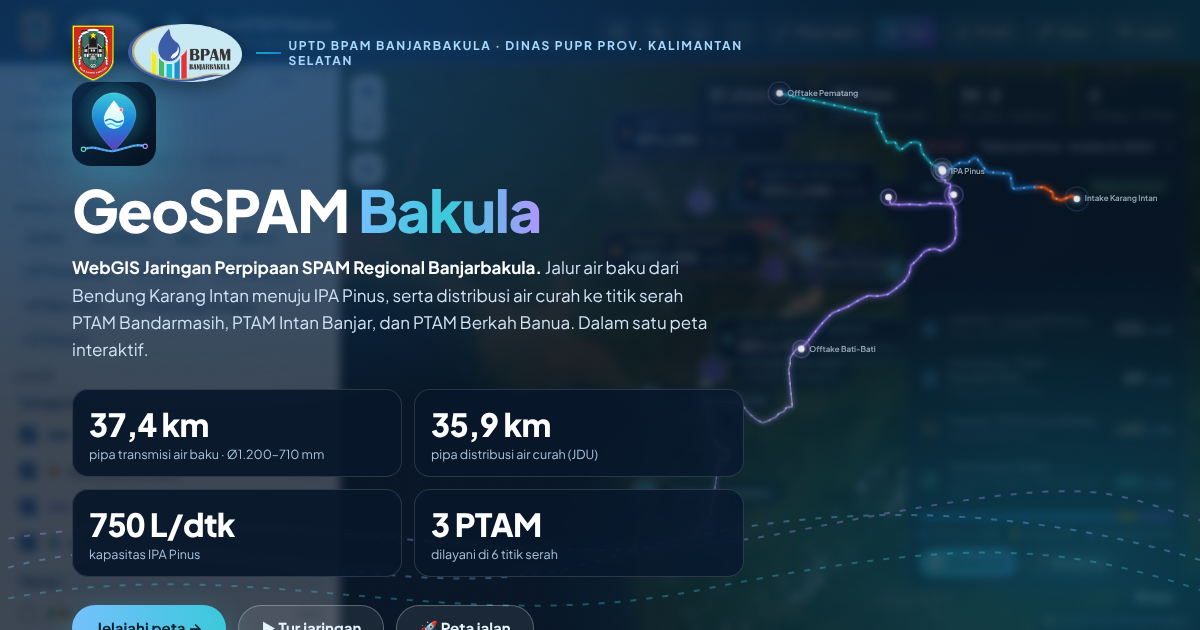
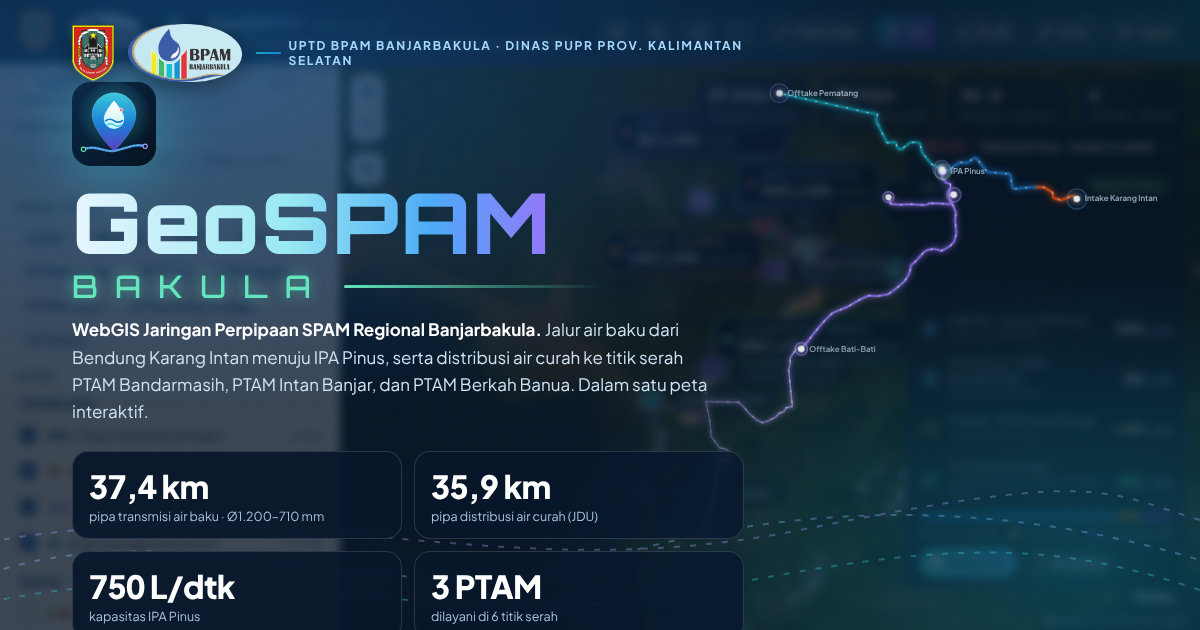
Wordmark futuristik GeoSPAM BAKULA (Orbitron) di intro, header, mode TV
Claude-Session: https://claude.ai/code/session_01WqnN3B2kz7EzJKXViYCMaL

diff --git a/index.html b/index.html
@@ -837,6 +837,14 @@ table.t td.n{text-align:right;font-variant-numeric:tabular-nums;white-space:nowr
 .hmark{flex:none;width:40px;height:40px;filter:drop-shadow(0 3px 8px rgba(0,0,0,.4))}.hmark svg{width:100%;height:100%;display:block}
 .imark{display:block;width:84px;height:84px;margin:0 0 14px;filter:drop-shadow(0 10px 30px rgba(59,201,219,.45));animation:fup .8s ease .1s both}.imark svg{width:100%;height:100%;display:block}
 @media (max-width:820px){.hmark{width:32px;height:32px}.logo2{display:none}.imark{width:64px;height:64px}}
[2 lines of base64/hex data omitted]
+.wm1{font-family:"Orbitron",sans-serif;font-weight:900;letter-spacing:.02em;background:linear-gradient(90deg,#e7f5ff 0%,#99e9f2 45%,#4dabf7 75%,#9775fa 100%);-webkit-background-clip:text;background-clip:text;color:transparent;filter:drop-shadow(0 0 14px rgba(77,171,247,.45))}
+.wm2{font-family:"Orbitron",sans-serif;font-weight:500;letter-spacing:.55em;color:#63e6be;text-shadow:0 0 14px rgba(99,230,190,.55)}
+#iTitle.wm{display:block}#iTitle .wm1{display:block;font-size:clamp(44px,7vw,92px);line-height:1}
+#iTitle .wm2row,#intro h2 .wm2row.w{display:flex;align-items:center;gap:16px;margin-top:6px}#iTitle .wm2{font-size:clamp(18px,2.6vw,34px)}#iTitle .wm2row i{flex:1;max-width:260px;height:3px;border-radius:3px;background:linear-gradient(90deg,#63e6be,transparent)}
+.ttl h1.wm{display:flex;align-items:baseline;gap:10px}.ttl h1 .wm1{font-size:17px;filter:none}.ttl h1 .wm2{font-size:10.5px;letter-spacing:.42em;text-shadow:none}
+.tvl b.wm{display:flex;align-items:baseline;gap:8px}.tvl b .wm1{font-size:20px}.tvl b .wm2{font-size:11px;letter-spacing:.4em}
 /* ---- telemetri AWLR */
 #tele{position:absolute;right:14px;bottom:40px;z-index:950;width:280px;background:rgba(7,22,40,.84);backdrop-filter:blur(14px) saturate(1.3);-webkit-backdrop-filter:blur(14px);color:#fff;border:1px solid rgba(255,255,255,.14);border-radius:16px;box-shadow:0 14px 40px rgba(0,0,0,.4);overflow:hidden;transition:opacity .3s}
 body.touring #tele{opacity:0;pointer-events:none}
@@ -1265,7 +1273,7 @@ body.touring #hud,body.touring #rcard{opacity:0;visibility:hidden}
   <path d="M214 262c14-10 28-10 42 0s28 10 42 0" fill="none" stroke="#3bc9db" stroke-width="8" stroke-linecap="round"/>
   <circle cx="300" cy="170" r="11" fill="#ff6b6b" stroke="#fff" stroke-width="4"/>
 </svg>
-</span><h2 id="iTitle"><span class="w">GeoSPAM</span> <em class="w">Bakula</em></h2>
+</span><h2 id="iTitle" class="wm"><span class="wm1 w">GeoSPAM</span><span class="wm2row w"><span class="wm2">BAKULA</span><i></i></span></h2>
     <p class="lead"><b style="color:#fff">WebGIS Jaringan Perpipaan SPAM Regional Banjarbakula.</b> Jalur air baku dari Bendung Karang Intan menuju IPA Pinus, serta distribusi air curah ke titik serah PTAM Bandarmasih, PTAM Intan Banjar, dan PTAM Berkah Banua. Dalam satu peta interaktif.</p>
     <div class="istats" id="istats"></div>
     <div class="icta"><button class="btn-go" id="btnGo">Jelajahi peta →</button><button class="btn-tour" id="btnTourI">▶ Tur jaringan</button><button class="btn-tour" id="btnRmI">🚀 Peta jalan</button><span class="ifoot">WebGIS Tahap 1 · data jaringan BPAM 2023–2026 · elevasi DEMNAS BIG · <a href="KTI_Ade_Nafis_Prawira_geoSPAM.pdf" target="_blank" rel="noopener" style="color:#99e9f2">📄 baca KTI</a></span></div>
@@ -1341,7 +1349,7 @@ body.touring #hud,body.touring #rcard{opacity:0;visibility:hidden}
     <div id="nrcBody"></div>
   </div>
 </div>
-<div id="tvbar"><div class="tvl"><img id="tvLogo" alt=""><div><b>GeoSPAM Bakula</b><span>Pemantauan live SPAM Regional Banjarbakula</span></div></div>
+<div id="tvbar"><div class="tvl"><img id="tvLogo" alt=""><div><b class="wm"><span class="wm1">GeoSPAM</span><span class="wm2">BAKULA</span></b><span>Pemantauan live SPAM Regional Banjarbakula</span></div></div>
   <div class="tvk" id="tvK"></div>
   <div class="tvr"><b id="tvClock">--:--</b><span id="tvDate"></span><button id="tvX">Keluar</button></div></div>
 <div id="tour" aria-live="polite">
@@ -1383,7 +1391,7 @@ body.touring #hud,body.touring #rcard{opacity:0;visibility:hidden}
   <circle cx="300" cy="170" r="11" fill="#ff6b6b" stroke="#fff" stroke-width="4"/>
 </svg>
 </span><div class="ttl">
-    <h1>GeoSPAM Bakula</h1>
+    <h1 class="wm"><span class="wm1">GeoSPAM</span><span class="wm2">BAKULA</span></h1>
     <p>WebGIS Jaringan Perpipaan SPAM Regional Banjarbakula · BPAM Banjarbakula</p>
   </div>
   <div class="hdr-btns">
